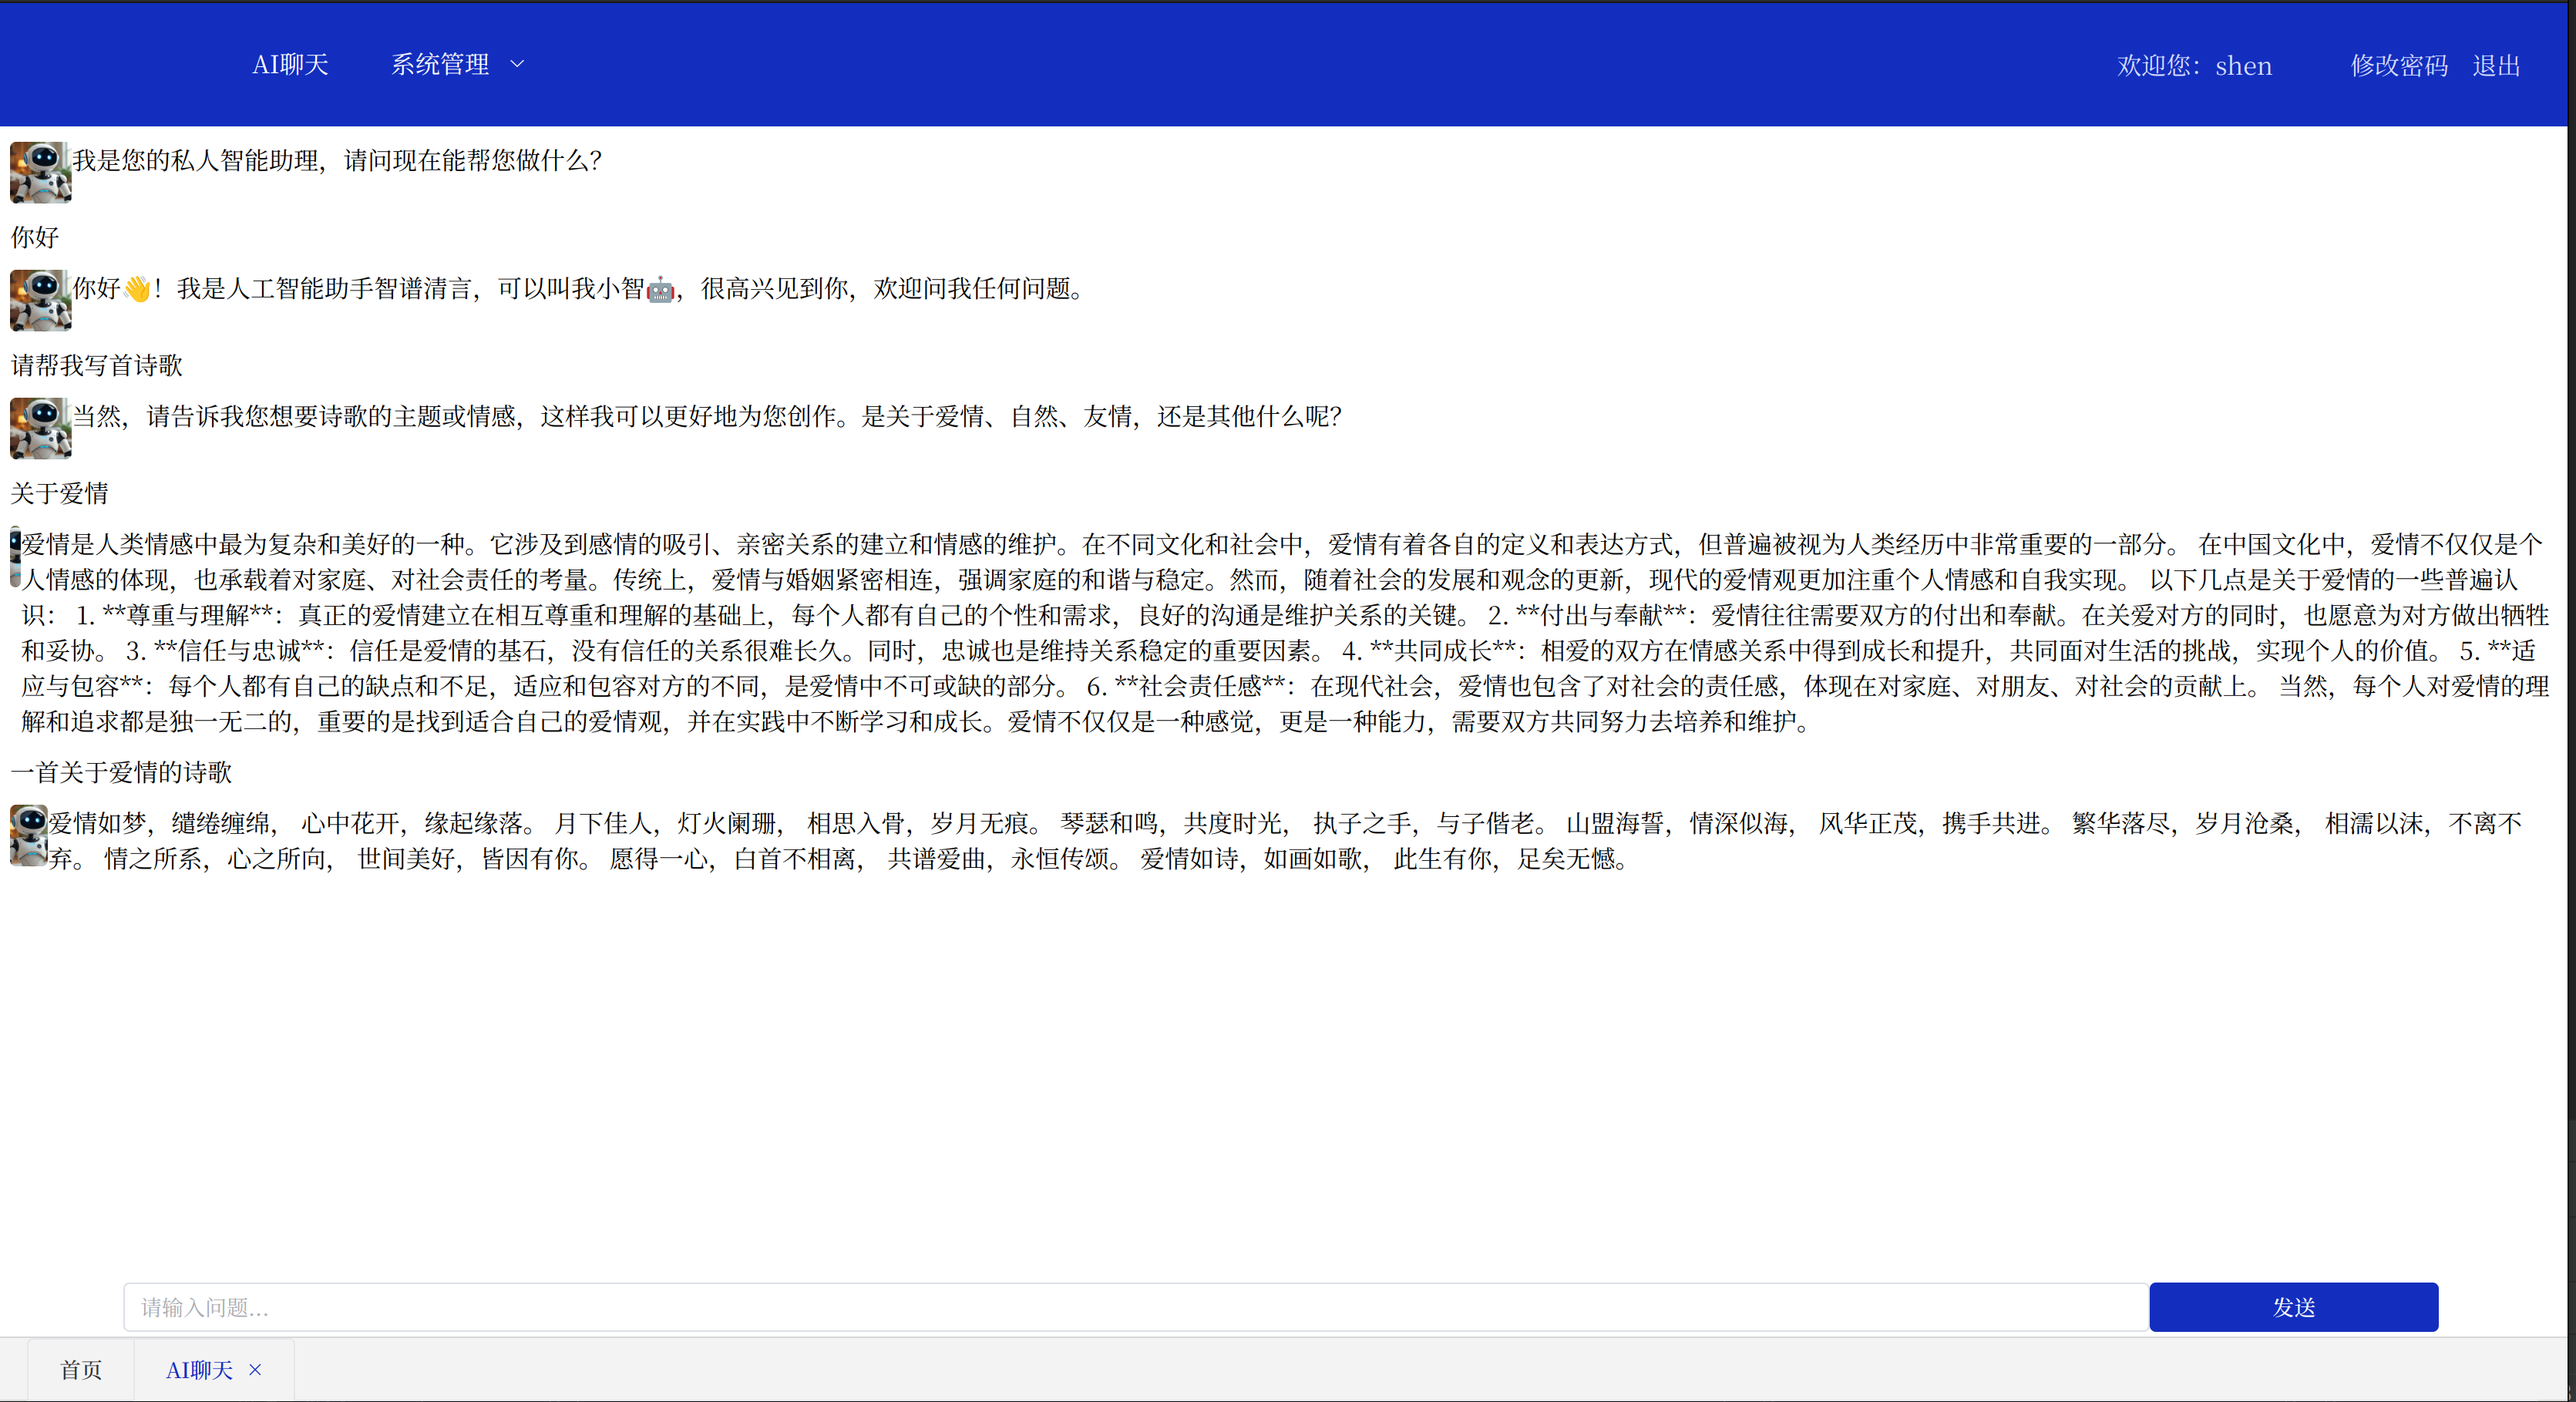
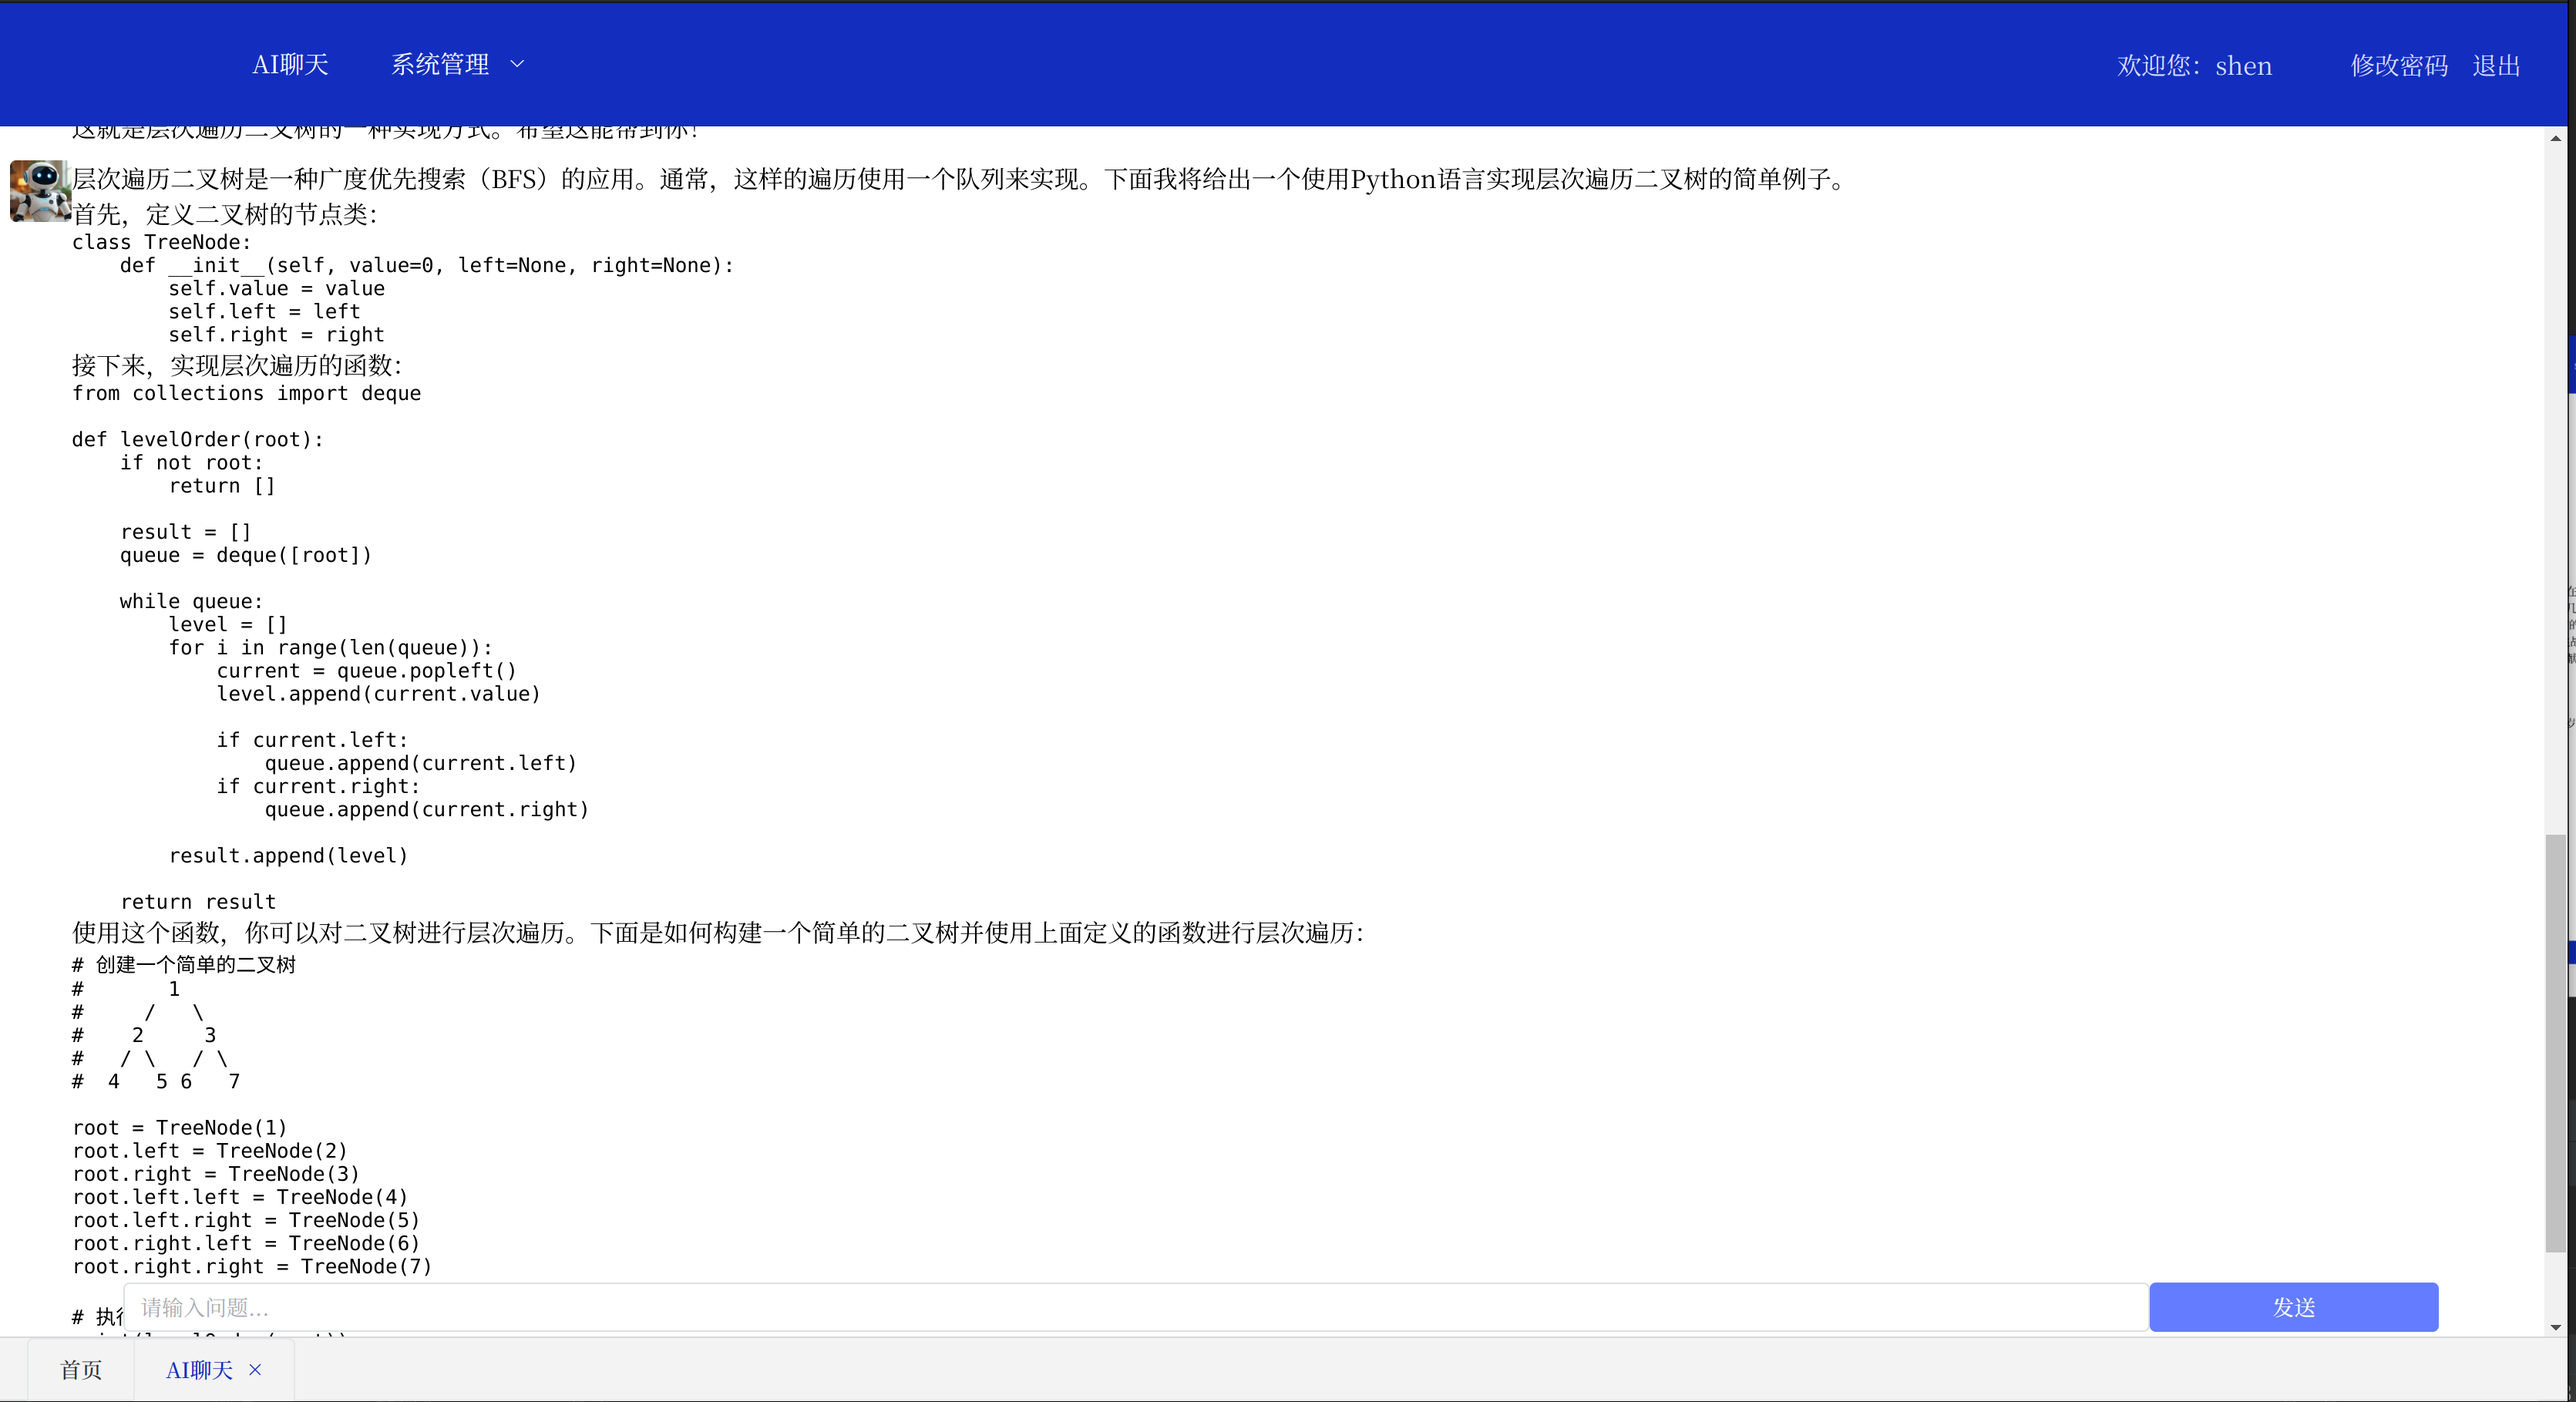
新增markdown支持

diff --git a/src/views/ai/Chat.vue b/src/views/ai/Chat.vue
@@ -2,11 +2,11 @@
   <div class="chat">
     <el-form>
       <el-row>
-        <div class="chat-container">
+        <div class="chat-container" style="margin-bottom: 40px">
           <div v-for="message in messages" :key="message.id" class="message">
             <el-avatar v-if="!message.isUser" shape="square" size="50" :src="botAvatar"></el-avatar>
             <div :class="{'user-message': message.isUser, 'bot-message': !message.isUser}">
-              {{ message.text }}
+              <div className="show-html" v-html=message.text></div>
             </div>
           </div>
         </div>
@@ -25,6 +25,9 @@
 
 <script>
 
+import {marked} from 'marked'
+import hljs from 'highlight.js'
+import 'highlight.js/styles/atom-one-dark.css'
 export default {
   name: "chat",
   data () {
@@ -37,13 +40,30 @@ export default {
     }
   },
   methods: {
+    renderMessageContent(msg) {
+      marked.setOptions({
+        renderer: new marked.Renderer(),
+        highlight: function(code, lang) {
+          // If lang is provided, use it; otherwise, let hljs guess
+          return hljs.highlight(code, { language: lang || '' }).value;
+        },
+        langPrefix: 'hljs language-',
+        pedantic: false,
+        gfm: true,  // GitHub Flavored Markdown for better code block support among other things
+        breaks: false,
+        sanitize: true,  // For security, sanitize the HTML output unless you trust the source
+        smartypants: false,
+        xhtml: false
+      });
+      let html = marked(msg)
+      return html
+    },
     sendMessage() {
       const self = this
       if (self.inputMessage) {
         self.messages.push({id: self.messages.length + 1, text: self.inputMessage, isUser: true});
         self.$http.post('/chat/chat', {'content': self.inputMessage}, 'apiUrl').then(res => {
-          debugger
-          self.messages.push({id: self.messages.length + 1, text: res, isUser: false});
+          self.messages.push({id: self.messages.length + 1, text: self.renderMessageContent(res), isUser: false});
           self.inputMessage = '';
         })
       }

diff --git a/README.md b/README.md
@@ -19,8 +19,7 @@ admin 1
 
 TODO
 1. 流式输出支持，后端已开发好
-2. 新增markdown支持
-3. 页面优化
+2. 页面优化
 
 欢迎关注公众号 算法小生，欢迎提交代码~~
 
